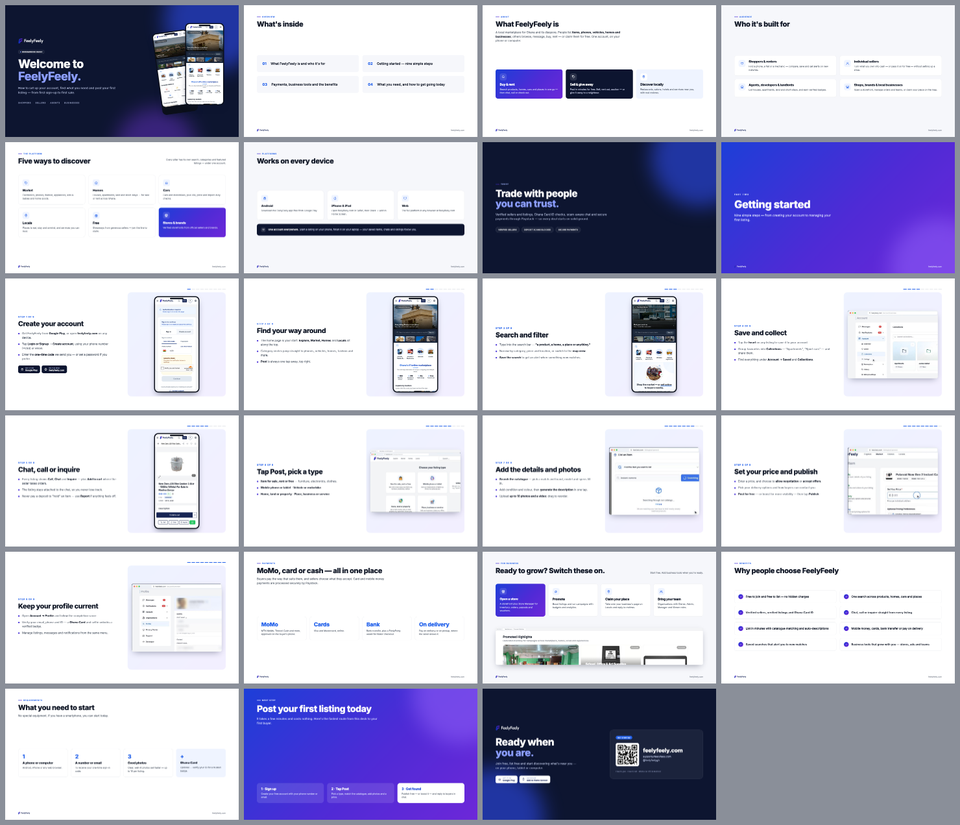
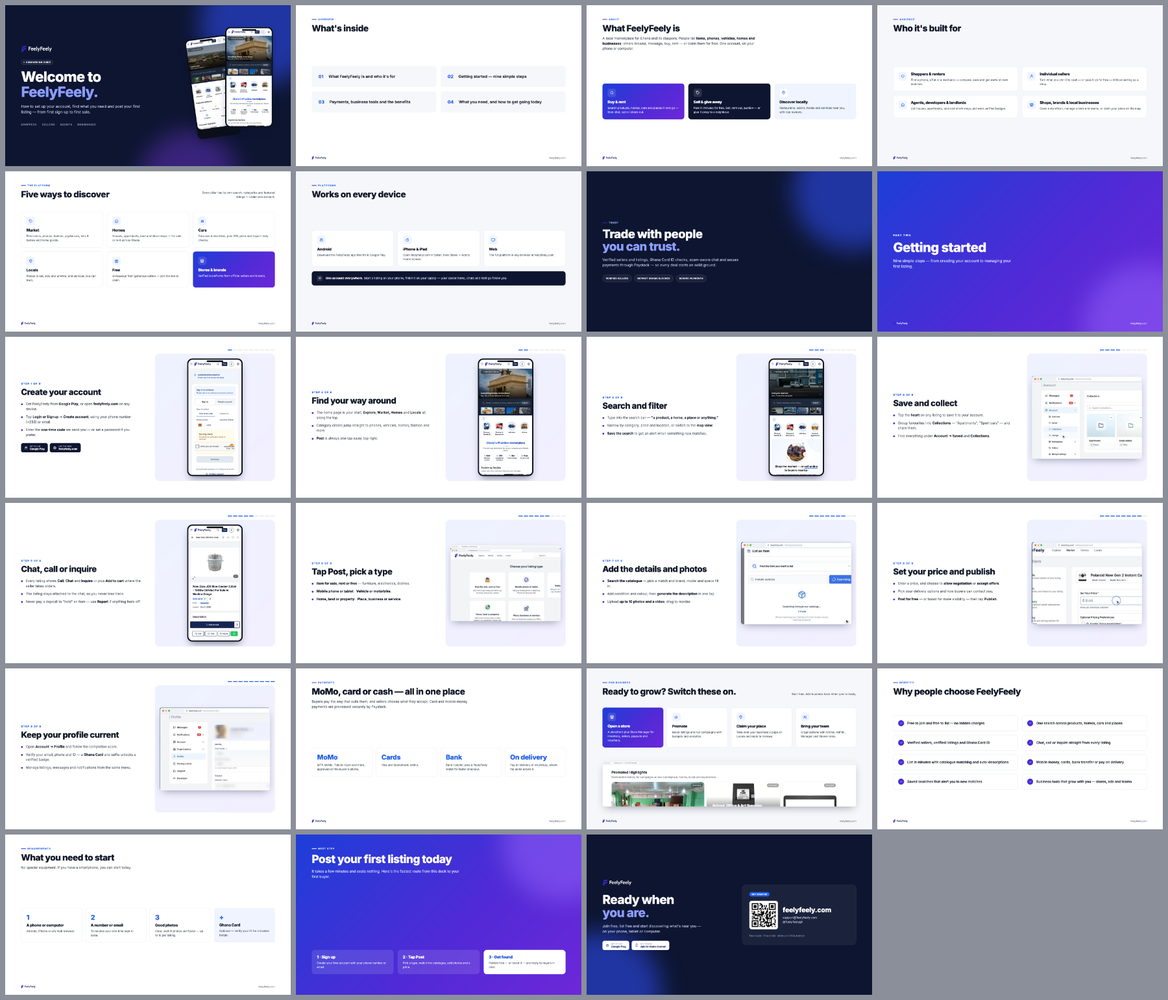
product-collateral 1.0.1: fixes from first real-world test run
A fresh agent used the skill on an unseen product (wordmark-only logo,
no live site). Fixes for what broke:

- logo: accept SVG, remove any flat background (not just white), recolour
  only the wordmark ink so coloured marks/accents survive, split a mark only
  when it is a different colour, and write a light/dark proof sheet
- render QA: check trifold panels individually, detect empty holes as well
  as unused bottoms, flag fractional page heights (the 1px bleed strip),
  stop false positives from positioned phones and mixed-content headings
- contact sheet sized to stay legible for short documents; previews named
  after the output PDF
- brand.css: remaining hardcoded on-dark colours, shadows and Inter-only
  font features are now tokens
- examples use whole-pixel page heights and pass QA cleanly
- capture guidance for repos with no live site and no dev server

diff --git a/plugins/product-collateral/skills/product-collateral/assets/templates/brand.css b/plugins/product-collateral/skills/product-collateral/assets/templates/brand.css
@@ -11,6 +11,11 @@
   --grad: linear-gradient(135deg, #1d3fd8 0%, #4f2bd6 55%, #6d28d9 100%); /* hero panels, numbered dots */
   --grad-soft: linear-gradient(135deg, #eef3ff 0%, #f3efff 100%);         /* screenshot stages */
   --on-dark-accent: #8b9dff;   /* highlighted words on dark covers: a light tint of --brand */
+  --on-dark-eyebrow: #a5b8ff; /* eyebrow labels on dark panels: a mid tint of --brand */
+  --on-dark-text: #b8c2e0;     /* body text on --ink: a desaturated light tint of the brand hue */
+  --on-color-text: #d6dcf5;    /* body text on gradient and dark cards */
+  --shadow-rgb: 13,21,48;      /* r,g,b of --ink, used for soft drop shadows */
+  --font-features: "cv11", "ss01"; /* Inter-only stylistic sets; set to normal for other fonts */
   --tint: #eff4ff;             /* very light brand tint: icon chips, soft cards */
   --tint-2: #e0e9ff;
   --paper: #ffffff;
@@ -25,7 +30,7 @@
 
 * { box-sizing: border-box; margin: 0; padding: 0; }
 html, body { background: #fff; color: var(--text); font-family: var(--font), system-ui, sans-serif;
-  -webkit-print-color-adjust: exact; print-color-adjust: exact; font-feature-settings: "cv11", "ss01"; }
+  -webkit-print-color-adjust: exact; print-color-adjust: exact; font-feature-settings: var(--font-features); }
 
 .page { position: relative; overflow: hidden; break-after: page; background: var(--paper); }
 .page:last-child { break-after: auto; }
@@ -34,14 +39,14 @@ html, body { background: #fff; color: var(--text); font-family: var(--font), sys
 .eyebrow { display: flex; align-items: center; gap: 8px; font-size: 9px; font-weight: 700; letter-spacing: .16em;
   text-transform: uppercase; color: var(--brand); }
 .eyebrow::before { content: ""; width: 18px; height: 3px; border-radius: 2px; background: var(--grad); }
-.on-dark .eyebrow { color: #a5b8ff; }
+.on-dark .eyebrow { color: var(--on-dark-eyebrow); }
 h1, h2, h3, h4 { letter-spacing: -0.025em; line-height: 1.05; font-weight: 800; color: var(--text); }
 .on-dark h1, .on-dark h2, .on-dark h3, .on-dark h4 { color: #fff; }
 /* Solid colour, not background-clip:text — clipped gradients leave hairline boxes in some PDF viewers. */
 .grad-text { color: var(--on-dark-accent); }
 .grad-text-dark { color: var(--brand); }
 p { color: var(--text-2); line-height: 1.5; }
-.on-dark p { color: #b8c2e0; }
+.on-dark p { color: var(--on-dark-text); }
 b, strong { color: var(--text); font-weight: 700; }
 .on-dark b, .on-dark strong { color: #fff; }
 
@@ -52,7 +57,7 @@ b, strong { color: var(--text); font-weight: 700; }
 .card-tint { background: var(--tint); border-radius: 14px; }
 .card-dark { background: var(--ink); color: #fff; border-radius: 14px; }
 .card-grad { background: var(--grad); color: #fff; border-radius: 14px; }
-.card-grad p, .card-dark p { color: #d6dcf5; }
+.card-grad p, .card-dark p { color: var(--on-color-text); }
 .card-grad h3, .card-grad h4, .card-dark h3, .card-dark h4, .card-grad b, .card-dark b { color: #fff; }
 
 /* Icons */
@@ -66,7 +71,7 @@ b, strong { color: var(--text); font-weight: 700; }
 .chip { display: inline-flex; align-items: center; gap: 6px; padding: 5px 11px; border-radius: 999px; font-size: 8.5px;
   font-weight: 700; letter-spacing: .08em; text-transform: uppercase; border: 1px solid rgba(255,255,255,.18); color: #fff; background: rgba(255,255,255,.06); }
 .chip.light { border-color: var(--line); color: var(--brand-ink); background: #fff; letter-spacing: .02em; text-transform: none; font-size: 8.5px; font-weight: 600; }
-.chip .dot { width: 6px; height: 6px; border-radius: 50%; background: #7c9cff; }
+.chip .dot { width: 6px; height: 6px; border-radius: 50%; background: var(--on-dark-accent); }
 .badge { display: inline-block; padding: 2px 7px; border-radius: 999px; font-size: 7px; font-weight: 800; letter-spacing: .08em;
   text-transform: uppercase; background: var(--ink); color: #fff; }
 .badge.blue { background: var(--brand); }
@@ -77,14 +82,14 @@ b, strong { color: var(--text); font-weight: 700; }
 .btn.white { background: #fff; color: var(--brand-ink); }
 
 /* Screenshot frames */
-.shot { border-radius: 10px; overflow: hidden; border: 1px solid var(--line); background: #fff; box-shadow: 0 10px 30px -12px rgba(13,21,48,.35); }
+.shot { border-radius: 10px; overflow: hidden; border: 1px solid var(--line); background: #fff; box-shadow: 0 10px 30px -12px rgba(var(--shadow-rgb),.35); }
 .shot img { display: block; width: 100%; height: auto; }
-.browser { border-radius: 10px; overflow: hidden; background: #fff; border: 1px solid var(--line); box-shadow: 0 16px 40px -16px rgba(13,21,48,.45); }
+.browser { border-radius: 10px; overflow: hidden; background: #fff; border: 1px solid var(--line); box-shadow: 0 16px 40px -16px rgba(var(--shadow-rgb),.45); }
 .browser .bar { height: 18px; display: flex; align-items: center; gap: 4px; padding: 0 8px; background: #f3f4f6; border-bottom: 1px solid var(--line); }
 .browser .bar i { width: 6px; height: 6px; border-radius: 50%; background: #d1d5db; }
 .browser .bar span { margin-left: 8px; font-size: 6.5px; color: var(--muted); background: #fff; border-radius: 4px; padding: 2px 10px; }
 .browser img { display: block; width: 100%; }
-.phone { position: relative; border-radius: 26px; background: #0b0f1a; padding: 6px; box-shadow: 0 20px 40px -14px rgba(13,21,48,.55); }
+.phone { position: relative; border-radius: 26px; background: #0b0f1a; padding: 6px; box-shadow: 0 20px 40px -14px rgba(var(--shadow-rgb),.55); }
 .phone img { display: block; width: 100%; border-radius: 21px; }
 .phone::after { content: ""; position: absolute; top: 10px; left: 50%; transform: translateX(-50%); width: 30%; height: 9px; border-radius: 9px; background: #0b0f1a; }
 
@@ -99,4 +104,4 @@ b, strong { color: var(--text); font-weight: 700; }
 
 .ticks li { list-style: none; position: relative; padding-left: 16px; color: var(--text-2); line-height: 1.45; }
 .ticks li::before { content: ""; position: absolute; left: 0; top: .5em; width: 7px; height: 7px; border-radius: 50%; background: var(--grad); }
-.on-dark .ticks li, .card-dark .ticks li, .card-grad .ticks li { color: #c9d1ee; }
+.on-dark .ticks li, .card-dark .ticks li, .card-grad .ticks li { color: var(--on-color-text); }

diff --git a/plugins/product-collateral/skills/product-collateral/examples/feelyfeely/brand.css b/plugins/product-collateral/skills/product-collateral/examples/feelyfeely/brand.css
@@ -11,6 +11,11 @@
   --grad: linear-gradient(135deg, #1d3fd8 0%, #4f2bd6 55%, #6d28d9 100%); /* hero panels, numbered dots */
   --grad-soft: linear-gradient(135deg, #eef3ff 0%, #f3efff 100%);         /* screenshot stages */
   --on-dark-accent: #8b9dff;   /* highlighted words on dark covers: a light tint of --brand */
+  --on-dark-eyebrow: #a5b8ff; /* eyebrow labels on dark panels: a mid tint of --brand */
+  --on-dark-text: #b8c2e0;     /* body text on --ink: a desaturated light tint of the brand hue */
+  --on-color-text: #d6dcf5;    /* body text on gradient and dark cards */
+  --shadow-rgb: 13,21,48;      /* r,g,b of --ink, used for soft drop shadows */
+  --font-features: "cv11", "ss01"; /* Inter-only stylistic sets; set to normal for other fonts */
   --tint: #eff4ff;             /* very light brand tint: icon chips, soft cards */
   --tint-2: #e0e9ff;
   --paper: #ffffff;
@@ -25,7 +30,7 @@
 
 * { box-sizing: border-box; margin: 0; padding: 0; }
 html, body { background: #fff; color: var(--text); font-family: var(--font), system-ui, sans-serif;
-  -webkit-print-color-adjust: exact; print-color-adjust: exact; font-feature-settings: "cv11", "ss01"; }
+  -webkit-print-color-adjust: exact; print-color-adjust: exact; font-feature-settings: var(--font-features); }
 
 .page { position: relative; overflow: hidden; break-after: page; background: var(--paper); }
 .page:last-child { break-after: auto; }
@@ -34,14 +39,14 @@ html, body { background: #fff; color: var(--text); font-family: var(--font), sys
 .eyebrow { display: flex; align-items: center; gap: 8px; font-size: 9px; font-weight: 700; letter-spacing: .16em;
   text-transform: uppercase; color: var(--brand); }
 .eyebrow::before { content: ""; width: 18px; height: 3px; border-radius: 2px; background: var(--grad); }
-.on-dark .eyebrow { color: #a5b8ff; }
+.on-dark .eyebrow { color: var(--on-dark-eyebrow); }
 h1, h2, h3, h4 { letter-spacing: -0.025em; line-height: 1.05; font-weight: 800; color: var(--text); }
 .on-dark h1, .on-dark h2, .on-dark h3, .on-dark h4 { color: #fff; }
 /* Solid colour, not background-clip:text — clipped gradients leave hairline boxes in some PDF viewers. */
 .grad-text { color: var(--on-dark-accent); }
 .grad-text-dark { color: var(--brand); }
 p { color: var(--text-2); line-height: 1.5; }
-.on-dark p { color: #b8c2e0; }
+.on-dark p { color: var(--on-dark-text); }
 b, strong { color: var(--text); font-weight: 700; }
 .on-dark b, .on-dark strong { color: #fff; }
 
@@ -52,7 +57,7 @@ b, strong { color: var(--text); font-weight: 700; }
 .card-tint { background: var(--tint); border-radius: 14px; }
 .card-dark { background: var(--ink); color: #fff; border-radius: 14px; }
 .card-grad { background: var(--grad); color: #fff; border-radius: 14px; }
-.card-grad p, .card-dark p { color: #d6dcf5; }
+.card-grad p, .card-dark p { color: var(--on-color-text); }
 .card-grad h3, .card-grad h4, .card-dark h3, .card-dark h4, .card-grad b, .card-dark b { color: #fff; }
 
 /* Icons */
@@ -66,7 +71,7 @@ b, strong { color: var(--text); font-weight: 700; }
 .chip { display: inline-flex; align-items: center; gap: 6px; padding: 5px 11px; border-radius: 999px; font-size: 8.5px;
   font-weight: 700; letter-spacing: .08em; text-transform: uppercase; border: 1px solid rgba(255,255,255,.18); color: #fff; background: rgba(255,255,255,.06); }
 .chip.light { border-color: var(--line); color: var(--brand-ink); background: #fff; letter-spacing: .02em; text-transform: none; font-size: 8.5px; font-weight: 600; }
-.chip .dot { width: 6px; height: 6px; border-radius: 50%; background: #7c9cff; }
+.chip .dot { width: 6px; height: 6px; border-radius: 50%; background: var(--on-dark-accent); }
 .badge { display: inline-block; padding: 2px 7px; border-radius: 999px; font-size: 7px; font-weight: 800; letter-spacing: .08em;
   text-transform: uppercase; background: var(--ink); color: #fff; }
 .badge.blue { background: var(--brand); }
@@ -77,14 +82,14 @@ b, strong { color: var(--text); font-weight: 700; }
 .btn.white { background: #fff; color: var(--brand-ink); }
 
 /* Screenshot frames */
-.shot { border-radius: 10px; overflow: hidden; border: 1px solid var(--line); background: #fff; box-shadow: 0 10px 30px -12px rgba(13,21,48,.35); }
+.shot { border-radius: 10px; overflow: hidden; border: 1px solid var(--line); background: #fff; box-shadow: 0 10px 30px -12px rgba(var(--shadow-rgb),.35); }
 .shot img { display: block; width: 100%; height: auto; }
-.browser { border-radius: 10px; overflow: hidden; background: #fff; border: 1px solid var(--line); box-shadow: 0 16px 40px -16px rgba(13,21,48,.45); }
+.browser { border-radius: 10px; overflow: hidden; background: #fff; border: 1px solid var(--line); box-shadow: 0 16px 40px -16px rgba(var(--shadow-rgb),.45); }
 .browser .bar { height: 18px; display: flex; align-items: center; gap: 4px; padding: 0 8px; background: #f3f4f6; border-bottom: 1px solid var(--line); }
 .browser .bar i { width: 6px; height: 6px; border-radius: 50%; background: #d1d5db; }
 .browser .bar span { margin-left: 8px; font-size: 6.5px; color: var(--muted); background: #fff; border-radius: 4px; padding: 2px 10px; }
 .browser img { display: block; width: 100%; }
-.phone { position: relative; border-radius: 26px; background: #0b0f1a; padding: 6px; box-shadow: 0 20px 40px -14px rgba(13,21,48,.55); }
+.phone { position: relative; border-radius: 26px; background: #0b0f1a; padding: 6px; box-shadow: 0 20px 40px -14px rgba(var(--shadow-rgb),.55); }
 .phone img { display: block; width: 100%; border-radius: 21px; }
 .phone::after { content: ""; position: absolute; top: 10px; left: 50%; transform: translateX(-50%); width: 30%; height: 9px; border-radius: 9px; background: #0b0f1a; }
 
@@ -99,4 +104,4 @@ b, strong { color: var(--text); font-weight: 700; }
 
 .ticks li { list-style: none; position: relative; padding-left: 16px; color: var(--text-2); line-height: 1.45; }
 .ticks li::before { content: ""; position: absolute; left: 0; top: .5em; width: 7px; height: 7px; border-radius: 50%; background: var(--grad); }
-.on-dark .ticks li, .card-dark .ticks li, .card-grad .ticks li { color: #c9d1ee; }
+.on-dark .ticks li, .card-dark .ticks li, .card-grad .ticks li { color: var(--on-color-text); }

diff --git a/plugins/product-collateral/skills/product-collateral/examples/feelyfeely/platform-brochure.html b/plugins/product-collateral/skills/product-collateral/examples/feelyfeely/platform-brochure.html
@@ -7,7 +7,7 @@
 <link rel="stylesheet" href="brand.css">
 <style>
   @page { size: 210mm 297mm; margin: 0; }
-  .page { width: 210mm; height: 297mm; padding: 40px 44px 54px; display: flex; flex-direction: column; }
+  .page { width: 210mm; height: 1122px; /* whole px: 297mm = 1122.5px would bleed onto the next page */ padding: 40px 44px 54px; display: flex; flex-direction: column; }
   .pf { position: absolute; left: 44px; right: 44px; bottom: 22px; display: flex; justify-content: space-between; font-size: 7.5px; color: var(--muted); border-top: 1px solid var(--line); padding-top: 8px; }
   .pf b { color: var(--brand); font-weight: 800; }
   .on-dark .pf { border-color: rgba(255,255,255,.12); color: #8d97ba; }
@@ -53,9 +53,9 @@
   .tool { padding: 12px; text-align: left; }
   .tool h4 { font-size: 10.5px; margin: 7px 0 3px; } .tool p { font-size: 8.2px; line-height: 1.4; }
 
-  .faq { display: grid; grid-template-columns: 1fr 1fr; gap: 34px 30px; margin-top: 10px; }
+  .faq { display: grid; grid-template-columns: 1fr 1fr; gap: 40px 32px; margin-top: 14px; }
   .roomy .feat { padding: 18px 18px; } .roomy .feat h4 { font-size: 13px; } .roomy .feat p { font-size: 9.8px; } .roomy .tool { padding: 16px 14px; } .roomy .tool h4 { font-size: 11.5px; } .roomy .tool p { font-size: 9px; } .roomy h4.sec { margin-top: 30px !important; }
-  .faq h4 { font-size: 13px; margin-bottom: 6px; } .faq p { font-size: 10.4px; line-height: 1.6; }
+  .faq h4 { font-size: 13.5px; margin-bottom: 7px; } .faq p { font-size: 11px; line-height: 1.6; }
 
   .tier { padding: 12px; } .tier h4 { font-size: 12px; } .tier p { font-size: 8.4px; margin-top: 4px; }
   .roles td, .roles th { font-size: 8.6px; padding: 7px 8px; border-bottom: 1px solid var(--line); text-align: left; vertical-align: top; }
@@ -311,6 +311,10 @@
     <div class="card feat"><span class="ic"><i data-i="wallet"></i></span><h4>Billing &amp; wallet</h4><p>Plans, receipts and a wallet for faster payments.</p></div>
     <div class="card feat"><span class="ic"><i data-i="lock"></i></span><h4>Privacy Centre</h4><p>Profile privacy toggles; deactivate or delete any time.</p></div>
   </div>
+  <div class="g2" style="margin-top: 16px;">
+    <div><div class="browser crop"><img src="../assets/img/acc-saved.jpg"></div><p class="cap"><b>Saved</b>Every listing you hearted, in one list.</p></div>
+    <div><div class="browser crop"><img src="../assets/img/acc-settings.jpg"></div><p class="cap"><b>Settings</b>Country, language and timezone in one place.</p></div>
+  </div>
   <div class="card-dark callout" style="margin-top: 16px;"><span class="ic"><i data-i="settings"></i></span><div><h4>Your region, your language</h4><p>Set your country, preferred language and timezone once — they apply everywhere you use FeelyFeely.</p></div></div>
   <div class="pf"><span>FeelyFeely · Official Platform Brochure 2026</span><b>10</b></div>
 </section>
@@ -421,9 +425,10 @@
     <div><h4>Can I shop from abroad?</h4><p>Yes. FeelyFeely connects verified sellers in Ghana with shoppers at home and in the diaspora — the UK, US and beyond.</p></div>
     <div><h4>How do I control my privacy?</h4><p>Use the Privacy Centre in your account to choose what your profile shows, or to deactivate or delete your account.</p></div>
     <div><h4>Where can I use FeelyFeely?</h4><p>On Android (Google Play), on iPhone by adding it to your Home Screen, and in any browser at feelyfeely.com.</p></div>
+    <div><h4>Can I edit a listing after posting?</h4><p>Yes. Account → Listings shows every listing with its status, price and stats — open one to edit or update it.</p></div>
     <div><h4>Is there a separate site for homes?</h4><p>Yes — FeelyFeely Homes lives at feelyfeely.homes, focused purely on property.</p></div>
   </div>
-  <div class="card-tint callout" style="margin-top: auto;"><span class="ic" style="background:#fff;"><i data-i="video"></i></span><div><h4>Prefer to watch?</h4><p>Short how-to videos walk through your account and posting items, phones, vehicles, homes and places. Follow @feelyfeelygh.</p></div></div>
+  <div class="card-tint callout" style="margin-top: 34px;"><span class="ic" style="background:#fff;"><i data-i="video"></i></span><div><h4>Prefer to watch?</h4><p>Short how-to videos walk through your account and posting items, phones, vehicles, homes and places. Follow @feelyfeelygh.</p></div></div>
   <div class="pf"><span>FeelyFeely · Official Platform Brochure 2026</span><b>14</b></div>
 </section>
 

diff --git a/plugins/product-collateral/skills/product-collateral/examples/feelyfeely/trifold.html b/plugins/product-collateral/skills/product-collateral/examples/feelyfeely/trifold.html
@@ -7,7 +7,7 @@
 <link rel="stylesheet" href="brand.css">
 <style>
   @page { size: 297mm 210mm; margin: 0; }
-  .page { width: 297mm; height: 210mm; display: grid; grid-template-columns: repeat(3, 1fr); }
+  .page { width: 297mm; height: 793px; /* whole px: 210mm = 793.7px would bleed a strip onto the next page */ display: grid; grid-template-columns: repeat(3, 1fr); }
   .panel { position: relative; padding: 30px 28px 26px; display: flex; flex-direction: column; overflow: hidden; }
   .panel + .panel { border-left: 1px dashed #d8dce6; }
   .on-dark + .panel, .panel.on-dark, .panel.grad { border-left: none; }
@@ -70,16 +70,16 @@
   .mod p { font-size: 8.8px; margin-top: 4px; line-height: 1.4; }
   .mod.card-grad { padding: 12px 13px; } .mod.card-grad h4 { font-size: 13.5px; }
 
-  .cta { padding: 16px 18px; margin: 10px 0 8px; }
+  .cta { padding: 20px 20px; margin: 12px 0 10px; }
   .cta .eyebrow { color: #a5b8ff; }
-  .cta .big { font-size: 15px; font-weight: 800; color: #fff; margin: 8px 0 2px; letter-spacing: -.01em; }
+  .cta .big { font-size: 18px; font-weight: 800; color: #fff; margin: 8px 0 2px; letter-spacing: -.01em; }
   .cta .sub { font-size: 9px; color: #9aa6cc; border-top: 1px solid rgba(255,255,255,.12); margin-top: 10px; padding-top: 8px; text-align: center; }
-  .store { display: flex; gap: 10px; align-items: center; padding: 8px 12px; margin-bottom: 6px; }
+  .store { display: flex; gap: 10px; align-items: center; padding: 11px 13px; margin-bottom: 8px; }
   .store small { display: block; font-size: 6.5px; font-weight: 700; letter-spacing: .1em; color: var(--muted); text-transform: uppercase; }
   .store b { font-size: 12.5px; }
   .store svg { width: 14px; height: 14px; stroke: var(--brand); fill: none; stroke-width: 2; }
   .qr { display: flex; gap: 12px; align-items: center; padding: 10px 12px; }
-  .qr img { width: 58px; height: 58px; }
+  .qr img { width: 72px; height: 72px; }
   .qr h4 { font-size: 11.5px; color: var(--brand-strong); } .qr p { font-size: 8.5px; }
   .sign { margin-top: auto; border-top: 1px solid var(--line); padding-top: 10px; display: flex; justify-content: space-between; align-items: center; font-size: 11px; font-weight: 800; }
   .sign .url { color: var(--brand); }
@@ -92,9 +92,9 @@
   <div class="panel on-dark cover">
     <div class="glow a"></div><div class="glow b"></div>
     <div class="phones">
-      <div class="phone" style="left: 30px; top: 34px; transform: rotate(-7deg);"><img src="../assets/img/m-homes.jpg"></div>
-      <div class="phone" style="right: 30px; top: 34px; transform: rotate(7deg);"><img src="../assets/img/m-locals.jpg"></div>
-      <div class="phone" style="left: 50%; margin-left: -70px; width: 140px; z-index: 2;"><img src="../assets/img/m-home.jpg"></div>
+      <div class="phone" style="left: 22px; top: 40px; width: 146px; transform: rotate(-7deg);"><img src="../assets/img/m-homes.jpg"></div>
+      <div class="phone" style="right: 22px; top: 40px; width: 146px; transform: rotate(7deg);"><img src="../assets/img/m-locals.jpg"></div>
+      <div class="phone" style="left: 50%; margin-left: -80px; width: 160px; z-index: 2;"><img src="../assets/img/m-home.jpg"></div>
     </div>
     <div style="position: relative; z-index: 3;">
       <img src="../assets/brand/logo-white.png" style="height: 24px;">

diff --git a/plugins/product-collateral/skills/product-collateral/examples/feelyfeely/onboarding-deck.html b/plugins/product-collateral/skills/product-collateral/examples/feelyfeely/onboarding-deck.html
@@ -379,7 +379,7 @@
 </section>
 
 <!-- 22 NEXT STEP -->
-<section class="page grad">
+<section class="page grad allow-space">
   <div class="glow" style="width: 600px; height: 600px; background: #8b5cf6; right: -200px; top: -260px; opacity: .6;"></div>
   <div style="position: relative;">
     <div class="eyebrow">Next step</div>

diff --git a/plugins/product-collateral/skills/product-collateral/references/layouts.md b/plugins/product-collateral/skills/product-collateral/references/layouts.md
@@ -15,6 +15,7 @@ one as your starting point rather than writing from scratch: the spacing has alr
 ## Shared rules
 
 - One `<section class="page">` per printed page or slide, with a fixed size in CSS units that matches `@page { size }`. `render.mjs` reads both.
+- **Give `.page` a whole-pixel height**, even when `@page` is in mm. 210mm is 793.7px and 297mm is 1122.5px. A fractional height makes the PDF bleed a 1px coloured strip onto the next page. Use `height: 793px` (A4 landscape), `1122px` (A4 portrait) or `810px` (16:9 deck). `render.mjs` warns if a page height is fractional.
 - Set `@page { margin: 0 }` and keep the margins inside `.page` as padding. That gives a full-bleed background on covers.
 - Every page has an eyebrow (a small uppercase label with a gradient dash), a headline, then one lede sentence. Readers skim in that order, so the headline has to carry the message.
 - Alternate surfaces for rhythm: white paper, an off-white `--panel`, and a gradient or dark `--ink` hero. Two dark pages in a row feels heavy, and an all-white run feels like a document.
@@ -35,7 +36,7 @@ one as your starting point rather than writing from scratch: the spacing has alr
 
 ## Trifold brochure
 
-A4 landscape (`297mm × 210mm`, rendered at 1123×794px), with 2 sides of 3 panels each in `grid-template-columns: repeat(3, 1fr)`.
+A4 landscape (`@page 297mm × 210mm`; `.page` 297mm × **793px**), with 2 sides of 3 panels each in `grid-template-columns: repeat(3, 1fr)`.
 Dashed borders mark the fold lines. Panel padding is ~30px 28px.
 
 **Side A (outside)**
@@ -50,7 +51,7 @@ Dashed borders mark the fold lines. Panel padding is ~30px 28px.
 
 ## Platform brochure
 
-A4 portrait (`210mm × 297mm`, 794×1123px), with page padding of 40px 44px 54px. Plan 12–16 pages:
+A4 portrait (`@page 210mm × 297mm`; `.page` 210mm × **1122px**), with page padding of 40px 44px 54px. Plan 12–16 pages:
 
 1. **Cover** (dark): logo and "Official platform brochure · YEAR", then eyebrow, a two-line headline and an intro paragraph. Below: pillar chips and a 4-stat row. Use only verifiable counts, e.g. "5 listing types" or "3 platforms", never invented totals. Finish with a large browser frame and an overlapping phone frame.
 2. **Overview**: a 3×2 grid of pillar/feature cards, a wide browser screenshot, and two callouts (one dark, one gradient). Add a "works on every device" row if space allows.
@@ -109,4 +110,5 @@ The same system covers formats people often ask for next:
 | `.num` | Gradient step number |
 | `.ticks` | Bulleted list with gradient dots |
 | `.glow` | Absolutely positioned blurred colour blob for dark covers |
-| `.allow-space` (on `.page`) | Silences the "too much empty space" QA warning for intentional title slides |
+| `.panel` / `[data-qa-region]` | Columns that QA checks one by one for holes and overflow (trifold panels use `.panel`) |
+| `.allow-space` (on `.page` or a panel) | Silences the empty-space QA warnings for intentional title or divider slides |

diff --git a/plugins/product-collateral/skills/product-collateral/references/brand-extraction.md b/plugins/product-collateral/skills/product-collateral/references/brand-extraction.md
@@ -25,6 +25,9 @@ Fill the `:root` block of `src/brand.css`:
 - `--ink`: a near-black tinted with the brand hue (e.g. `#0d1530` for blue, `#1a0b0b` for red). Pure black looks off-brand on covers.
 - `--on-dark-accent`: a light, readable tint of `--brand` for highlighted words on dark covers.
 - `--tint`, `--tint-2`, `--grad-soft`: the 50/100 shades of the brand hue.
+- `--on-dark-eyebrow`, `--on-dark-text`, `--on-color-text`: light tints of the brand hue for labels and body text on dark and gradient surfaces. For a warm brand (yellow, red), tint these warm too, or the dark pages will look cold.
+- `--shadow-rgb`: the r,g,b of `--ink`, used for drop shadows.
+- `--font-features`: `"cv11", "ss01"` suits Inter only. Use `normal` for any other font.
 - `--font`: the product's UI font. Load it from Google Fonts in each HTML `<head>`. Change the `family=` in the link too.
 
 The example HTML files also contain a few literal colours (glow blobs such as `#3150ff`, and light tints such as `#a5b8ff` and `#dfe4ff` on dark or gradient panels). Swap those for hues from the new palette when adapting an example.
@@ -33,5 +36,10 @@ The example HTML files also contain a few literal colours (glow blobs such as `#
 
 - **Placeholder font files.** A repo can ship 0-byte `.woff2` files, with the real font served by `next/font` at build time. Check the file sizes. If they're empty, load the font from Google Fonts instead of referencing local files.
 - **Fake marks.** `icon.svg` or `ff-icon.svg` is sometimes a generated placeholder (initials on a square), not the real mark. Open it before using it. The real lockup is usually a PNG in a `brand` folder.
-- **Logo on dark backgrounds.** Most repos only have the logo for light backgrounds. Run `image-tools.mjs logo` to get `logo-white.png`. It removes the white background, detects the mark | gap | wordmark layout, and turns only the wordmark white so the coloured mark survives. Check the result on a dark swatch. If the mark itself is dark, it needs a light version too. Say so to the user rather than shipping an invisible mark.
+- **Logo on dark backgrounds.** Most repos only have the logo for light backgrounds. `image-tools.mjs logo <svg|png|jpg> assets/brand` handles this:
+  - It removes any flat background (white or off-white JPEG grey).
+  - It finds the wordmark's ink colour and turns only that ink white, so a coloured mark or accent (a gradient icon, a green tick) keeps its colours.
+  - It splits out `mark.png` only when the left part really is a separately coloured mark.
+
+  Always open `logo-proof.png`, which shows both variants on light and dark. If the repo has a clean SVG, a tidy alternative is to copy it and swap the wordmark's `fill` for white.
 - **Generic config, branded usage.** shadcn defaults (`--primary: 222 47% 11%`) often aren't the real brand. Trust the class-usage counts and the logo over an untouched default config.

diff --git a/plugins/product-collateral/skills/product-collateral/SKILL.md b/plugins/product-collateral/skills/product-collateral/SKILL.md
@@ -30,7 +30,7 @@ Run every script from inside this directory. They resolve `playwright` from the 
 
 These two can run in parallel. Delegate the fact sweep to a subagent if available, because it reads many files.
 - **Brand**: read `references/brand-extraction.md`, then fill the `:root` tokens in `src/brand.css`. Build the logo variants:
-  `node <skill-dir>/scripts/image-tools.mjs logo <path/to/logo.png> assets/brand`
+  `node <skill-dir>/scripts/image-tools.mjs logo <path/to/logo.svg|png> assets/brand`. Then open `assets/brand/logo-proof.png` to check that both variants read on light and dark.
 - **Facts**: read `references/content-rules.md` and write `fact-sheet.md` with a source for every line. This is what keeps the piece honest: copy comes from here, not from imagination.
 
 ### 4. Capture real screens
@@ -57,9 +57,9 @@ The examples link `brand.css` and `icons.js` from the same folder. Icons are `<i
 ```bash
 node <skill-dir>/scripts/render.mjs src/platform-brochure.html out/<Product>-Platform-Brochure.pdf
 ```
-This writes the PDF, per-page PNGs and `out/preview/<name>/sheet.png`, and prints QA warnings: broken images, an unloaded font, overflowing pages, too much empty space. Then:
+This writes the PDF, per-page PNGs and `out/preview/<pdf-name>/sheet.png`. It also prints QA warnings, checking each page and each trifold `.panel` for: broken images, an unloaded font, fractional page heights, overflow, empty holes and unused bottoms. The checks are heuristics, so a clean run doesn't replace looking. Then:
 1. Look at the contact sheet for rhythm and balance, then open individual pages at full size to read the text. Rendering isn't the finish line; looking is.
-2. Fix every warning and anything that looks off. Common fixes: rebalance a sparse page by adding a real content band; cap a tall screenshot with `height` + `object-fit: cover`; remove a duplicate browser bar; shorten copy that wraps badly.
+2. Fix every warning (or mark an intentional title slide `.allow-space`), and anything else that looks off. Common fixes: rebalance a sparse page by adding a real content band; cap a tall screenshot with `height` + `object-fit: cover`; remove a duplicate browser bar; shorten copy that wraps badly.
 3. Re-render until the sheet looks like a finished, professional piece, comparable to the reference samples.
 
 ### 7. Deliver

diff --git a/plugins/product-collateral/skills/product-collateral/references/capture.md b/plugins/product-collateral/skills/product-collateral/references/capture.md
@@ -8,6 +8,8 @@ The sources, in order of preference:
 3. **Existing videos and screen recordings** (demo videos, how-to clips, launch videos): `image-tools.mjs frame` grabs a frame, then `trim` cuts away the video background.
 4. **App store screenshots / existing marketing images** in the repo (`public/screenshots`, `assets/marketing`).
 
+**No live site and no dev server** (e.g. the domain doesn't resolve yet, or you were told not to run the app): use what the repo already ships. Look for marketing images (`public/landing`, `public/screenshots`, `public/og*`, `assets/marketing`), app-store screenshots, Storybook stories and mockups. Phone mockups and illustrations can carry the layout. List "no real UI screenshots — swap in live screens once the site is up" in the gap report. If the repo has nothing usable, ask the user for screenshots before laying out pages, because image slots are much harder to fill afterwards.
+
 Pages behind a login are the usual gap. Never type real passwords or create accounts on a production site to get them. Instead, use recordings (option 3). Or ask the user for screenshots, or for a local dev environment with test credentials.
 
 ## Shot list
